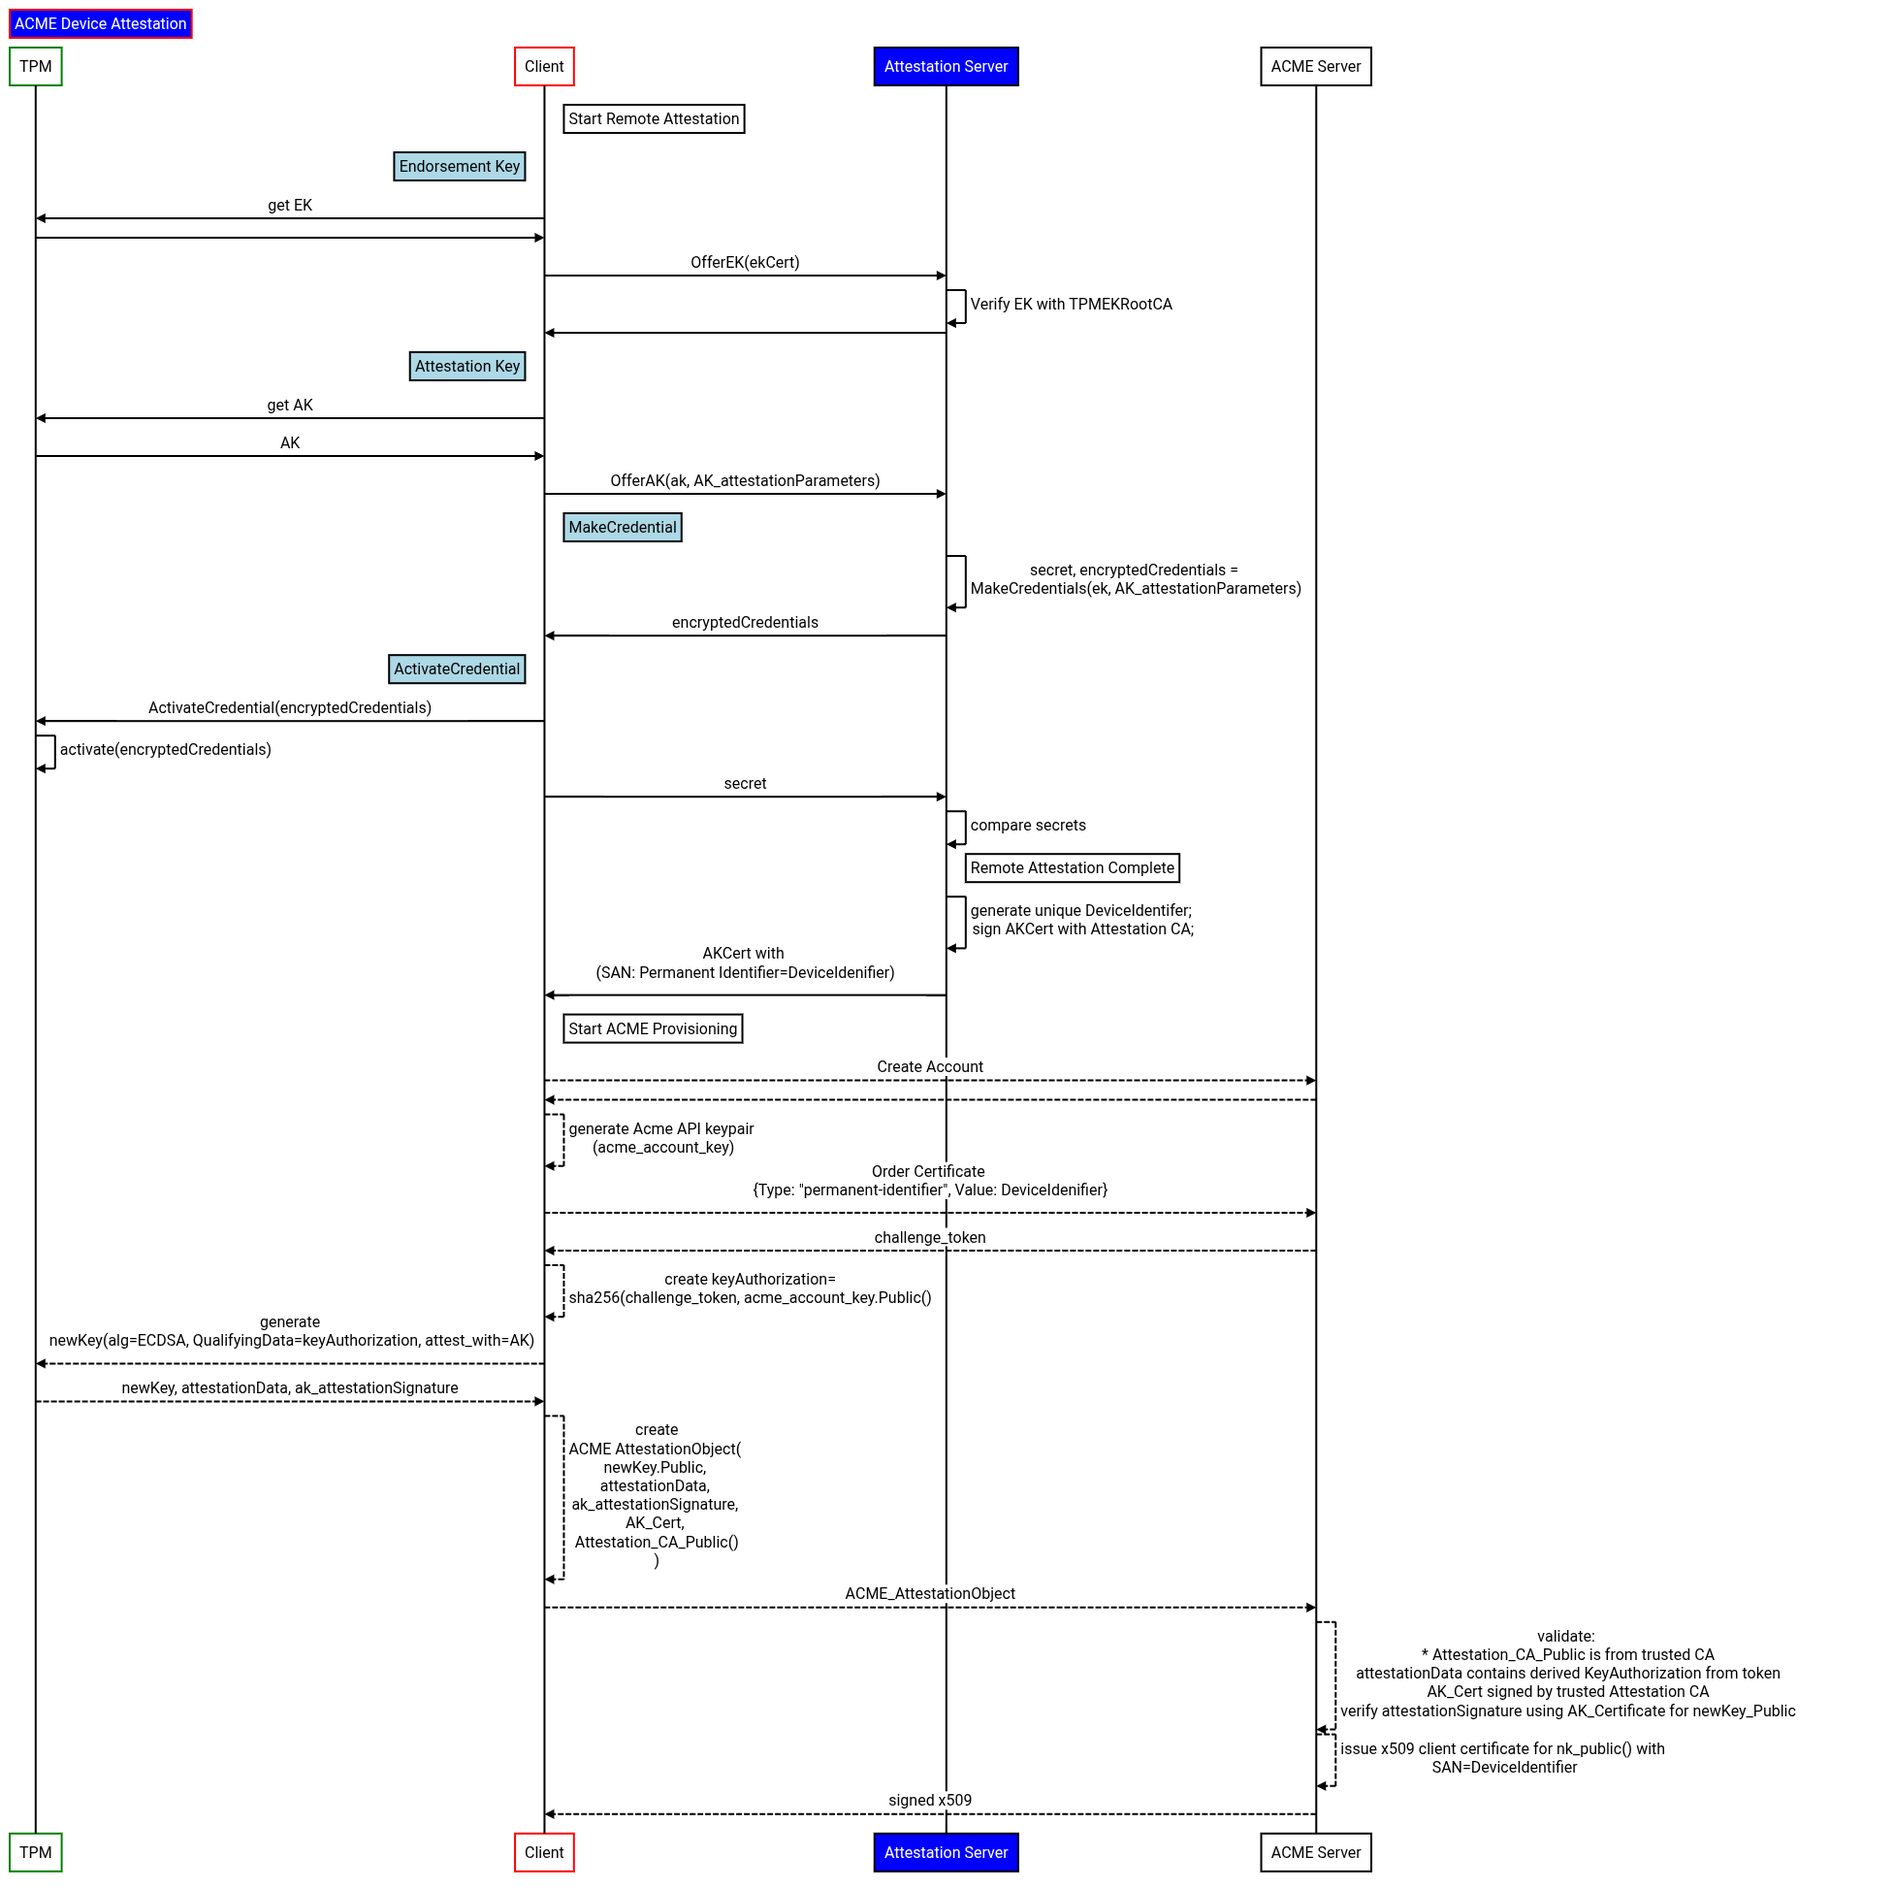
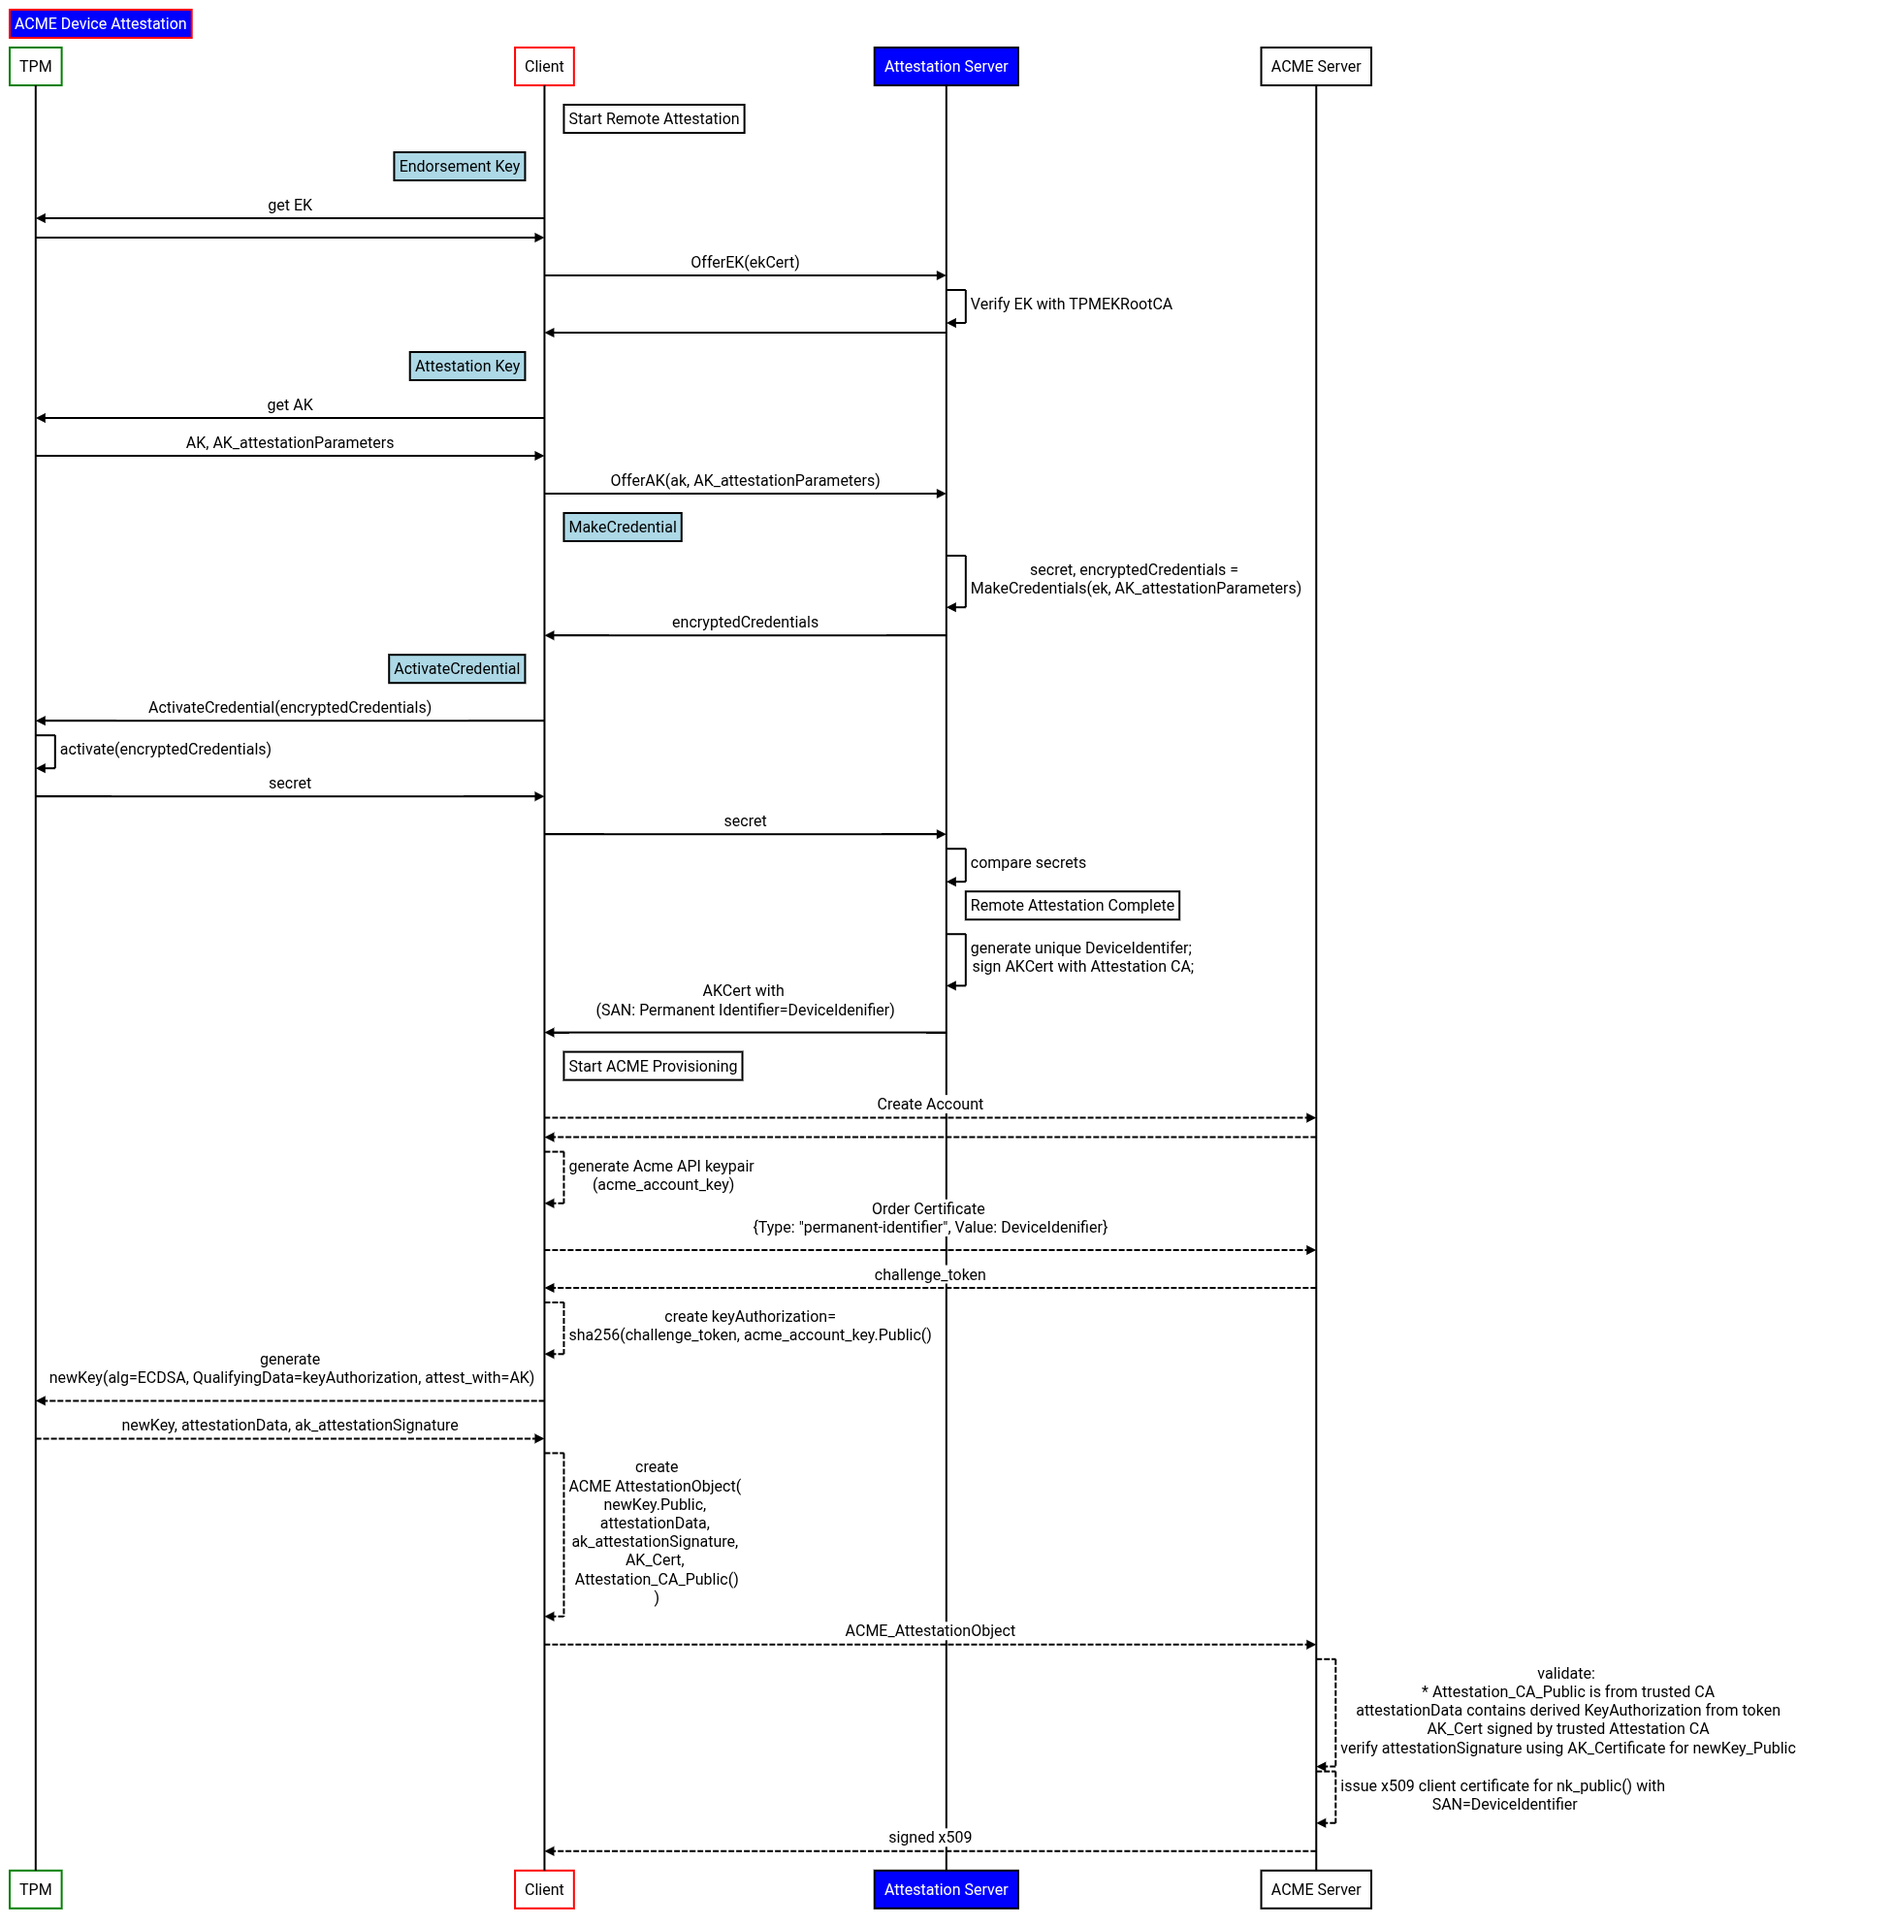
update image

diff --git a/README.md b/README.md
@@ -24,8 +24,9 @@ and also described here:
 
 In this specific setup, there are actually two distinct Certificate Authorities.
 
-a. Attestation CA on the Attestation server which verifies the client's TPM and issues an Attestation certificate to that device
-b. ACME server which runs its own CA to issue client certificates and is configured to accept device attestations signed by the Attestation CA.
+- `a.` Attestation CA on the Attestation server which verifies the client's TPM and issues an Attestation certificate to that device
+
+- `b.` ACME server which runs its own CA to issue client certificates and is configured to accept device attestations signed by the Attestation CA.
 
 For more general reading, see
 
